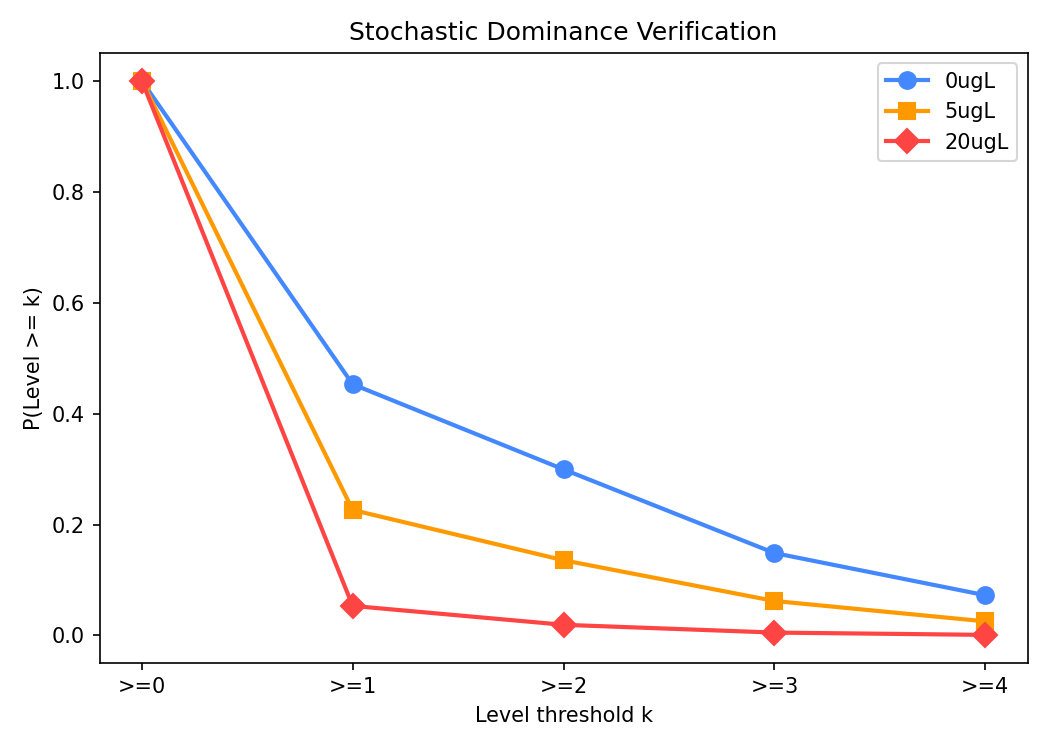
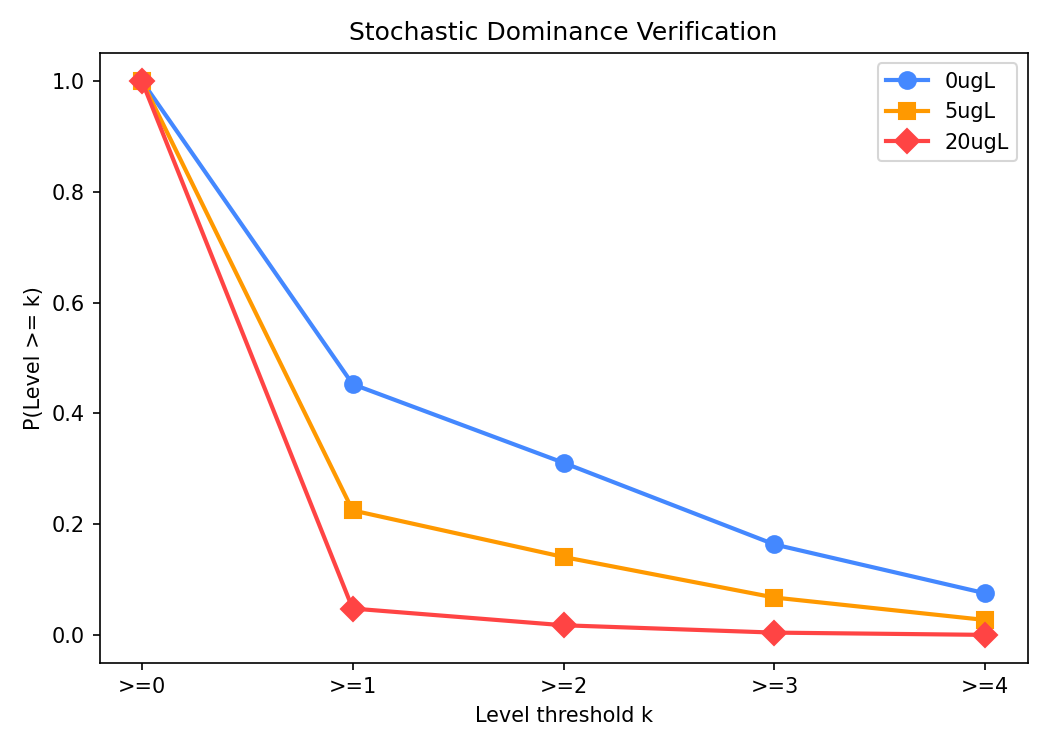
Two-stage peak detection with overlap-free flux measurement (v4 final)
- Stage 1: core detection (threshold=25) rejects noise wells early
- Stage 2: branch search only for wells with real core signal
- Overlap-free pixel summation prevents double-counting when peaks
  are closer than 2*radius
- Quench threshold raised to P25 of non-zero flux values
- Stochastic dominance: PASS at all levels (0ugL > 5ugL > 20ugL)
- Update INTENSITY_ANALYSIS.md with v4 final algorithm and results

diff --git a/dachuang/analyze_grid.py b/dachuang/analyze_grid.py
@@ -221,6 +221,35 @@ def _measure_peak_flux(patch, py, px, bg_val, radius=3):
     return (patch[yg[mask], xg[mask]] - bg_val).clip(0).sum()
 
 
+def _measure_peaks_no_overlap(patch, peak_positions, bg_val, radius=3):
+    """Measure total flux of multiple peaks without double-counting.
+
+    Each pixel within radius of ANY peak is assigned to its nearest peak.
+    Total flux = sum of all assigned pixels minus background.
+    """
+    ph, pw = patch.shape
+    if len(peak_positions) == 0:
+        return 0.0
+
+    if len(peak_positions) == 1:
+        py, px = peak_positions[0]
+        return _measure_peak_flux(patch, py, px, bg_val, radius)
+
+    # Collect all pixels within radius of any peak
+    all_pixels = set()
+    for py, px in peak_positions:
+        for y in range(max(0, py - radius), min(ph, py + radius + 1)):
+            for x in range(max(0, px - radius), min(pw, px + radius + 1)):
+                if (y - py)**2 + (x - px)**2 <= radius**2:
+                    all_pixels.add((y, x))
+
+    # Sum flux (each pixel counted once)
+    total = 0.0
+    for y, x in all_pixels:
+        total += max(patch[y, x] - bg_val, 0.0)
+    return total
+
+
 def measure_intensity(R, cy, cx, core_radius=3, search_radius=10,
                       bg_inner=11, bg_outer=14,
                       core_threshold=25.0, branch_threshold=20.0,
@@ -288,17 +317,23 @@ def measure_intensity(R, cy, cx, core_radius=3, search_radius=10,
 
     branch_ys, branch_xs = np.where(branch_peaks)
 
-    branch_fluxes = []
+    # Filter branches by individual flux, keep brightest
+    valid_branches = []
     for py, px in zip(branch_ys, branch_xs):
         flux = _measure_peak_flux(patch, py, px, bg_val, radius=core_radius)
         if flux >= min_peak_flux:
-            branch_fluxes.append(flux)
+            valid_branches.append((flux, py, px))
 
-    # Keep brightest branches, cap at max
-    branch_fluxes.sort(reverse=True)
-    branch_fluxes = branch_fluxes[:max_branches]
+    valid_branches.sort(reverse=True)
+    valid_branches = valid_branches[:max_branches]
 
-    total_flux = core_flux + sum(branch_fluxes)
+    # Combine core + branches, measure without double-counting pixels
+    all_peaks = [(center_y, center_x)]
+    for _, py, px in valid_branches:
+        all_peaks.append((py, px))
+
+    total_flux = _measure_peaks_no_overlap(patch, all_peaks, bg_val,
+                                           radius=core_radius)
     return total_flux, bg_val, total_flux
 
 
